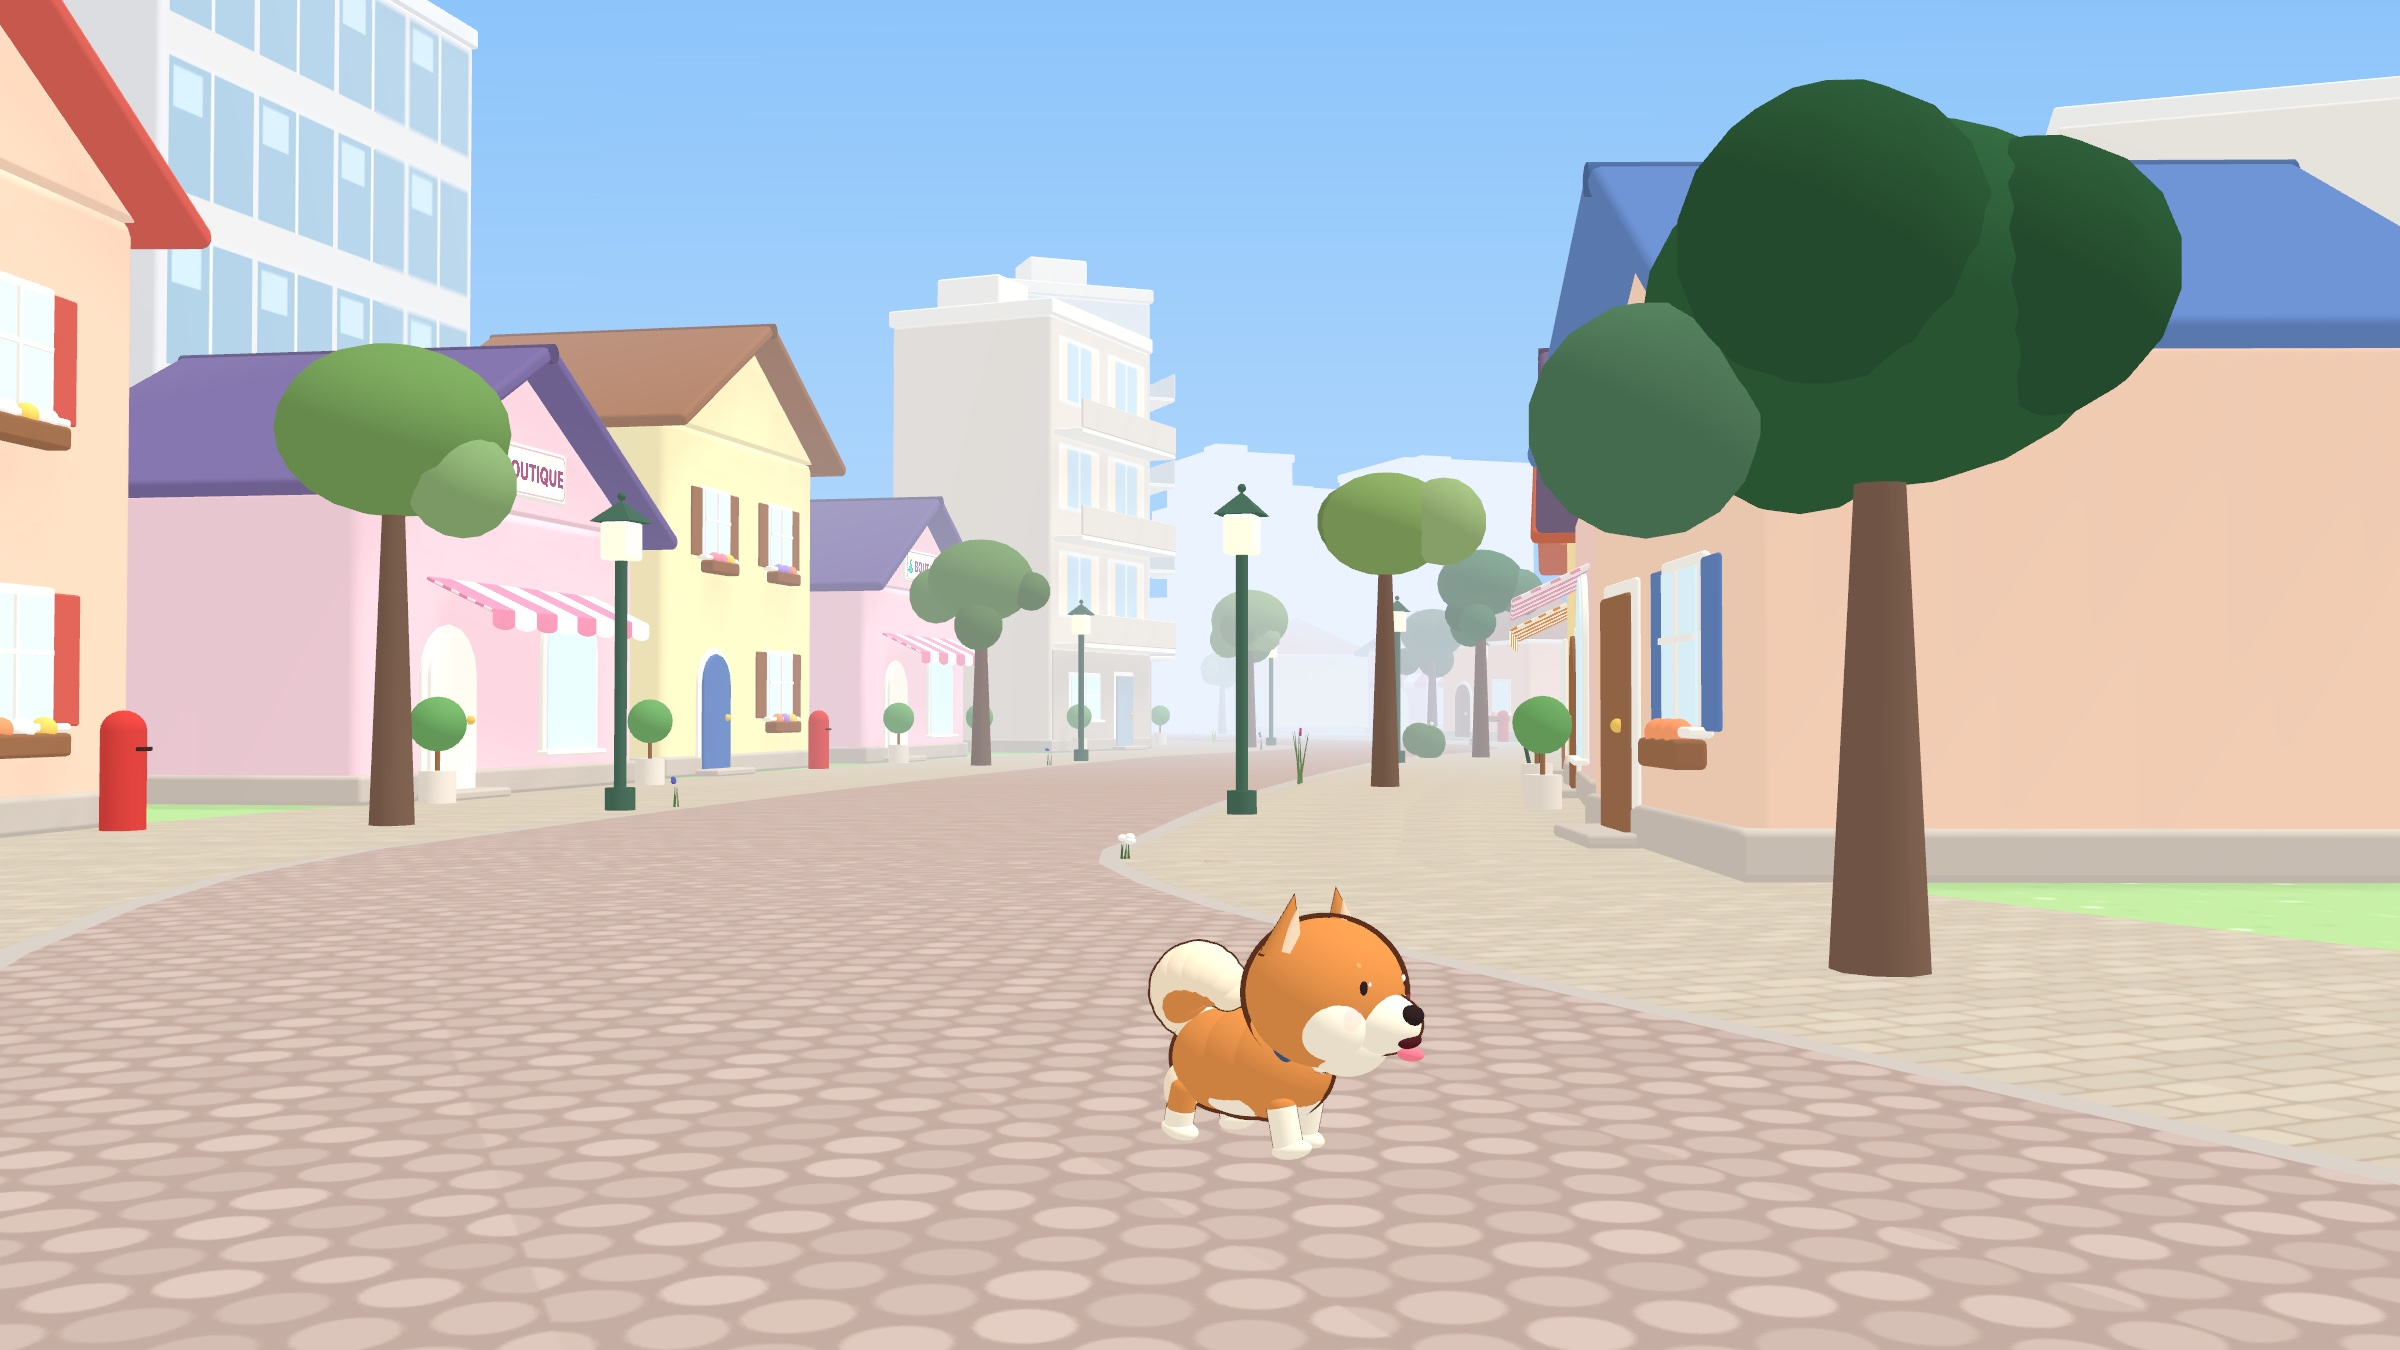
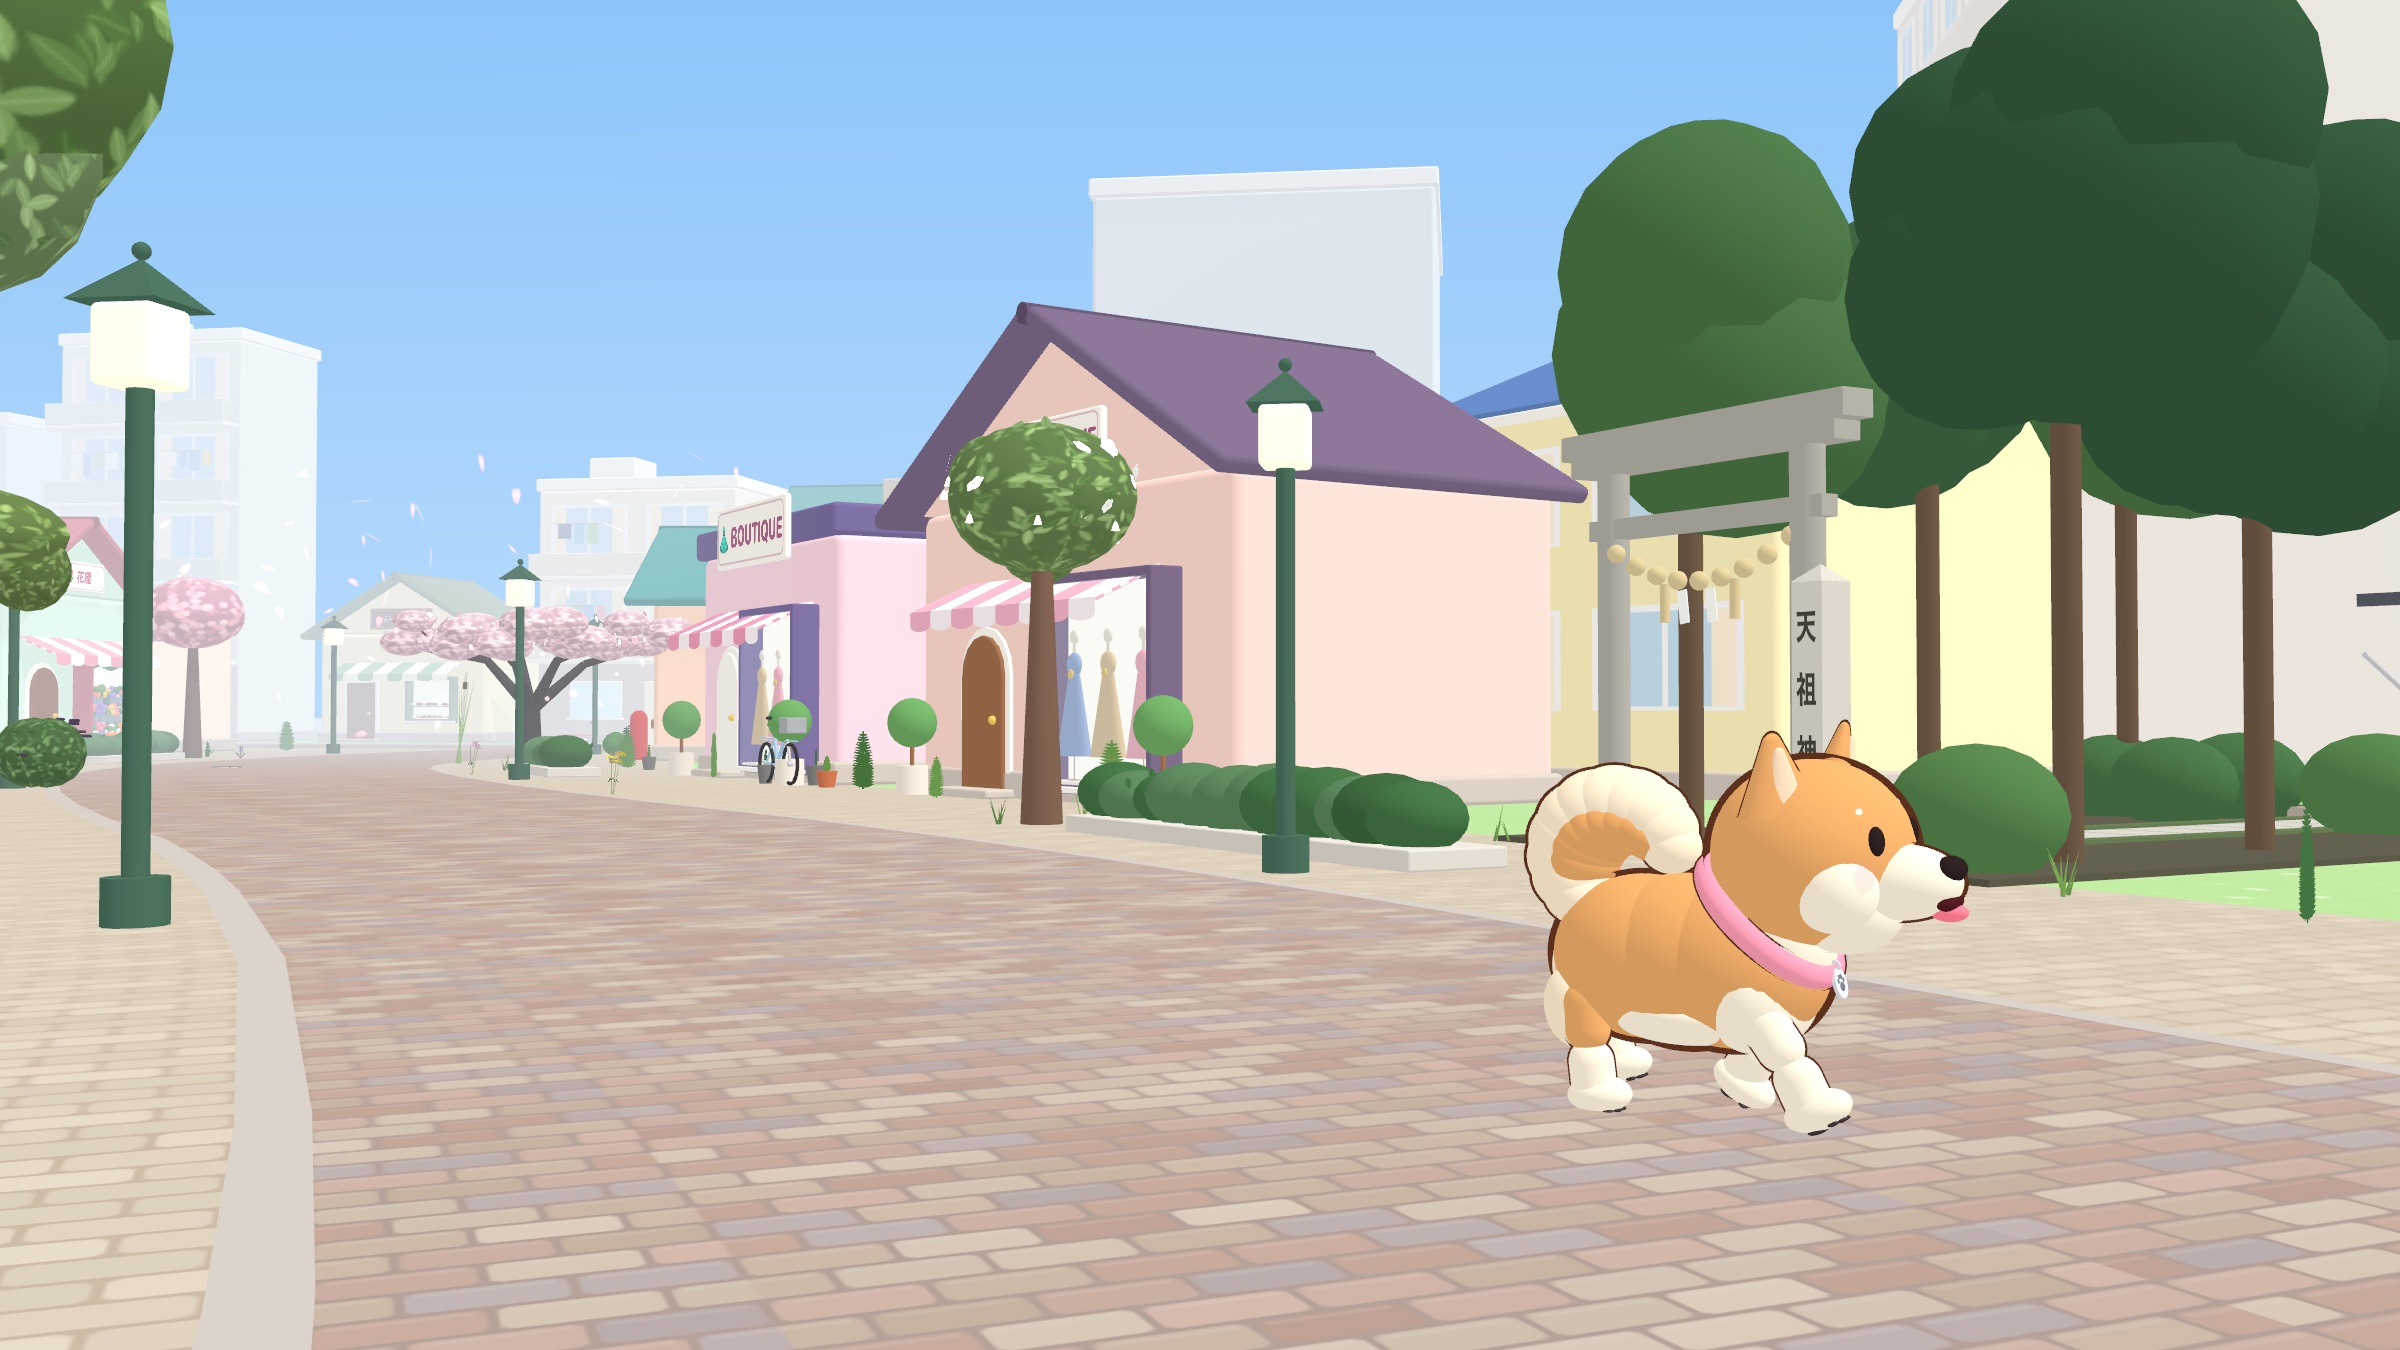
Desktop hero: new picture with the current Toshiko (grown, pink collar) on a spring street with a shrine's torii behind her; the ShibaLife lock-up centred over it (was a quarter in from the left)

diff --git a/style.css b/style.css
@@ -52,7 +52,7 @@ a { color: var(--pink-deep); }
 /* A long soft fade from the picture into the cream section below */
 .hero .scene::after { content: ""; position: absolute; left: 0; right: 0; bottom: 0; height: 20%;
   background: linear-gradient(to bottom, rgba(255,247,238,0) 0%, rgba(255,247,238,.55) 55%, var(--cream) 100%); pointer-events: none; }
-.lockup { position: absolute; left: 25%; top: 7%; width: min(38vw, 560px); transform: translateX(-50%);
+.lockup { position: absolute; left: 50%; top: 6%; width: min(34vw, 520px); transform: translateX(-50%);
   filter: drop-shadow(0 10px 24px rgba(120, 60, 40, .22)); }
 .lockup img { display: block; width: 100%; height: auto; }
 .lockup .dog, .lockup .paws { width: 63%; margin: 0 auto -19.7% 22.5%; }

diff --git a/en/index.html b/en/index.html
@@ -81,7 +81,7 @@
 <main>
   <div class="hero">
     <div class="scene wide wide-only">
-      <img src="/img/hero_street.jpg" width="2400" height="1350" alt="Toshiko the red Shiba Inu out for a walk in ShibaLife's town" fetchpriority="high">
+      <img src="/img/hero_street.jpg" width="2400" height="1350" alt="Toshiko the red Shiba Inu out for a walk on a spring street, a little shrine's torii gate behind her" fetchpriority="high">
       <div class="lockup" aria-hidden="true">
         <img class="dog" src="/img/toshiko.png" width="800" height="800" alt="">
         <img class="paws" src="/img/toshiko.png" width="800" height="800" alt="">

diff --git a/index.html b/index.html
@@ -81,7 +81,7 @@
 <main>
   <div class="hero">
     <div class="scene wide wide-only">
-      <img src="/img/hero_street.jpg" width="2400" height="1350" alt="ShibaLife の町並みを散歩する赤柴のトシコ" fetchpriority="high">
+      <img src="/img/hero_street.jpg" width="2400" height="1350" alt="桜の咲く町並みを散歩する赤柴のトシコ。うしろに小さな神社の鳥居" fetchpriority="high">
       <div class="lockup" aria-hidden="true">
         <img class="dog" src="/img/toshiko.png" width="800" height="800" alt="">
         <img class="paws" src="/img/toshiko.png" width="800" height="800" alt="">
